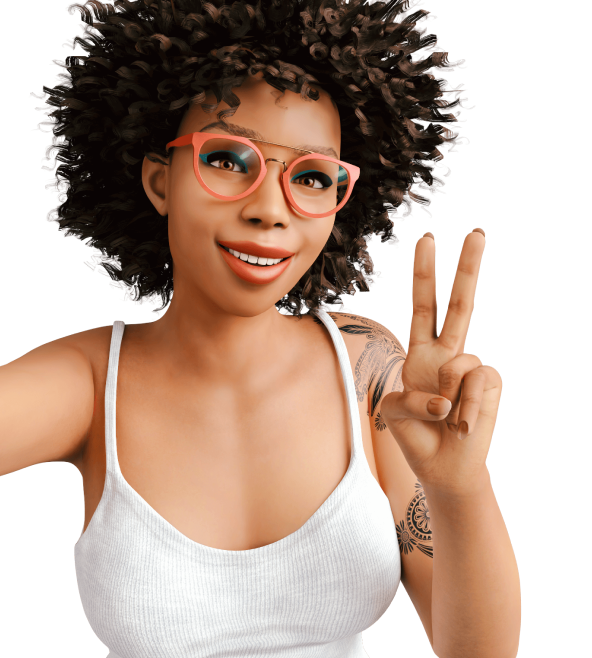
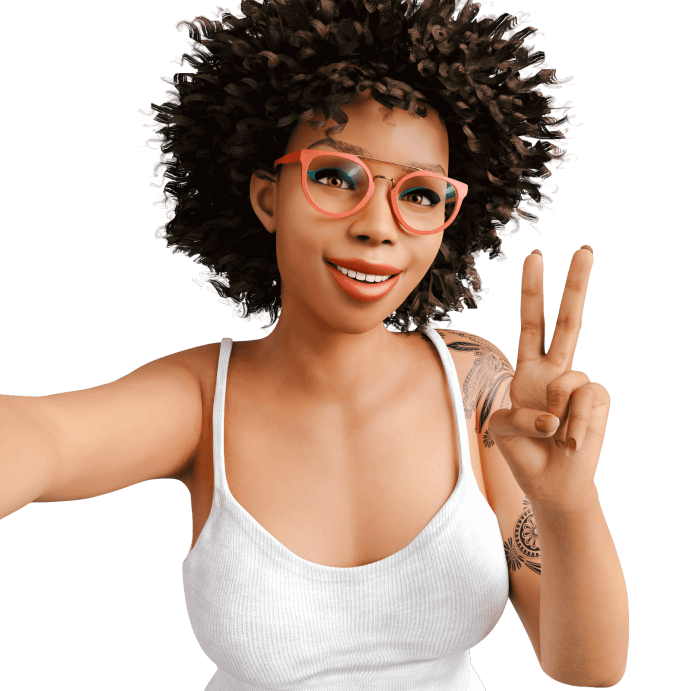
Criando parte parts/bannerWithForeground

diff --git a/assets/css/css.css b/assets/css/css.css
@@ -3,7 +3,7 @@
 div.navbar  {
     width: 100vw;
     margin: 0px;
-    padding: 10px 0px;
+    padding: 20px 0px;
 
     position: fixed;
 
@@ -19,6 +19,7 @@ div.navbar>* {
 }
 
 div .navbar_red  {
+    padding: 10px 0px;
     background-color: #e33f3f;
     -webkit-box-shadow: 0px 5px 13px -1px rgba(0,0,0,0.39);
     -moz-box-shadow: 0px 5px 13px -1px rgba(0,0,0,0.39);
@@ -26,16 +27,15 @@ div .navbar_red  {
 }
 
 div.navbar_red>img.logo  {
-    height: 40px;
+    height: 45px;
 }
 
 ul.menu  {
     display: flex;
-    justify-content: space-between;
 }
 
 li.menu_item  {
-    margin: 0px 10px;
+    margin: 0px 20px;
     font-family: "Prompt";
     font-size: 14px;
     font-weight: 400;
@@ -51,3 +51,79 @@ img.logo  {
 }
 
 /* ? código da parte: parts/bannerWithForeground */
+
+.text  {
+    font-family: "Prompt";
+    color: white;
+}
+
+
+div.banner_with_foreground  {
+    height: 695px;
+    background-repeat: no-repeat;
+    background-position-x: center;
+    background-position-y:center ;
+    background-size:cover;
+    overflow: hidden;
+    display: flex;
+    flex-direction: row;
+    justify-content: space-between;
+    align-items: center;
+}
+
+img.banner_foreground  {
+    height: 695px;
+}
+
+div.ctaAndText  {
+    width: 800px;
+    margin-right: 100px;
+
+    display: flex;
+    flex-direction: column;
+    justify-content: center;
+}
+
+p.banner_text  {
+    font-family: "Mukta";
+    margin: 0px;
+    width: 590px;
+    line-height: 25px;
+    word-spacing: 5px;
+    font-size: 16px;
+    font-weight: 300;
+}
+
+
+.banner_title  {
+    font-weight: 700;
+    text-shadow: -2px 1px 18px rgba(0,0,0,0.39);
+    font-size: 45px;
+    line-height: 50px;
+    margin: 0px 0px 20px 0px;
+}
+
+button.banner_cta  {
+    font-family: "Prompt";
+    color: white;
+    font-weight: 400;
+    width: 200px;
+    height: 50px;
+    text-transform: uppercase;
+    word-spacing: 5px;
+    letter-spacing: .3px;
+
+    border-color: #ff9898;
+    border-radius: 10px;
+    border-width: thin;
+    border-style: solid;
+    background-color: rgba(255, 255, 255, 0);
+
+    transition: all ease-in-out .3s;
+}
+
+button.banner_cta:hover  {
+    background-color: white;
+    border-color: white;
+    color: black;
+}

diff --git a/assets/css/fonts/mukta.css b/assets/css/fonts/mukta.css
@@ -1,0 +1,41 @@
+.mukta-extralight {
+  font-family: "Mukta", sans-serif;
+  font-weight: 200;
+  font-style: normal;
+}
+
+.mukta-light {
+  font-family: "Mukta", sans-serif;
+  font-weight: 300;
+  font-style: normal;
+}
+
+.mukta-regular {
+  font-family: "Mukta", sans-serif;
+  font-weight: 400;
+  font-style: normal;
+}
+
+.mukta-medium {
+  font-family: "Mukta", sans-serif;
+  font-weight: 500;
+  font-style: normal;
+}
+
+.mukta-semibold {
+  font-family: "Mukta", sans-serif;
+  font-weight: 600;
+  font-style: normal;
+}
+
+.mukta-bold {
+  font-family: "Mukta", sans-serif;
+  font-weight: 700;
+  font-style: normal;
+}
+
+.mukta-extrabold {
+  font-family: "Mukta", sans-serif;
+  font-weight: 800;
+  font-style: normal;
+}

diff --git a/assets/scripts/script.js b/assets/scripts/script.js
@@ -14,3 +14,5 @@ function morphNavbar()  {
         }
     
 }
+
+// TODO tranformar fors em for of's

diff --git a/parts/bannerWithForeground.php b/parts/bannerWithForeground.php
@@ -1,5 +1,32 @@
-<div class="banner_with_foreground">
+<div style="background-image: url(<?=get_template_directory_uri();?>/assets/images/banner_background.jpg);" class="banner_with_foreground">
 
-    
+   <img src="<?=get_template_directory_uri()?>/assets/images/banner_foreground.png" alt="" class="banner_foreground"> 
+
+   <div class="ctaAndText">
+
+        <p class="banner_text text">
+            leve sua empresa para a nova realidade digital
+        </p>
+
+        <h1 class="banner_title text">
+            A sua persona virtual com alta performance
+        </h1>
+
+        <p class="banner_text text">
+            Para marcas inovadoras: Brand Persona PYXYS + Ilustraria 3D é o primeiro combo do Brasil
+            de construção de avatares 3D, com tecnologia de ponta em computação gráfica, combinada
+            à mais completa Estratégia de Content, Growth e Performance Data-driven
+        </p>
+
+        <button class="banner_cta">Quero saber mais</button>
+
+        <div class="sponsors">
+            <p class="banner_subt_title">Um Produto:</p>
+
+            <img src="" alt="" class="sponsor_img">
+            <img src="" alt="" class="sponsor_img">
+        </div>
+
+   </div>
 
 </div>

diff --git a/header.php b/header.php
@@ -7,6 +7,9 @@
     <link rel="preconnect" href="https://fonts.googleapis.com">
     <link rel="preconnect" href="https://fonts.gstatic.com" crossorigin>
     <link href="https://fonts.googleapis.com/css2?family=Prompt:ital,wght@0,100;0,200;0,300;0,400;0,500;0,600;0,700;0,800;0,900;1,100;1,200;1,300;1,400;1,500;1,600;1,700;1,800;1,900&display=swap" rel="stylesheet">
+    <link rel="preconnect" href="https://fonts.googleapis.com">
+<link rel="preconnect" href="https://fonts.gstatic.com" crossorigin>
+<link href="https://fonts.googleapis.com/css2?family=Mukta:wght@200;300;400;500;600;700;800&display=swap" rel="stylesheet">
     <?php wp_head(); ?>
 </head>
 

diff --git a/parts/navbar.php b/parts/navbar.php
@@ -5,7 +5,7 @@
     <ul class="menu">
 
         <li class="menu_item"><a href="" class="menu_link">Home</a></li>
-        <li class="menu_item"><a href="" class="menu_link">Por Que a Brand Persona</a></li>
+        <li class="menu_item"><a href="" class="menu_link">Por Que Brand Persona</a></li>
         <li class="menu_item"><a href="" class="menu_link">O Mercado</a></li>
         <li class="menu_item"><a href="" class="menu_link">Vantagens</a></li>
         <li class="menu_item"><a href="" class="menu_link">Como Funciona</a></li>

diff --git a/functions.php b/functions.php
@@ -36,7 +36,7 @@ function enqueue_multiple_styles(array $sheets, $version = false)  {
     }
 }
 
-do_action('wp_enqueue_style', $stylesheets, '0.1.2');
+do_action('wp_enqueue_style', $stylesheets, false);
 
 wp_enqueue_script('script', get_template_directory_uri() . '/assets/scripts/script.js', false, false);
 

diff --git a/templates/landing-page.php b/templates/landing-page.php
@@ -8,7 +8,7 @@ get_template_part('/parts/navbar');
 
 get_template_part('parts/bannerWithForeground');
 
-echo '<div style = "background-color:blue;width:100vw;height:200vh;"></div>';
+echo '<div style = "background-color:blue;width:98.61vw;height:200vh;margin:0px;padding:0px;"></div>';
 
 echo '</div>';
 
